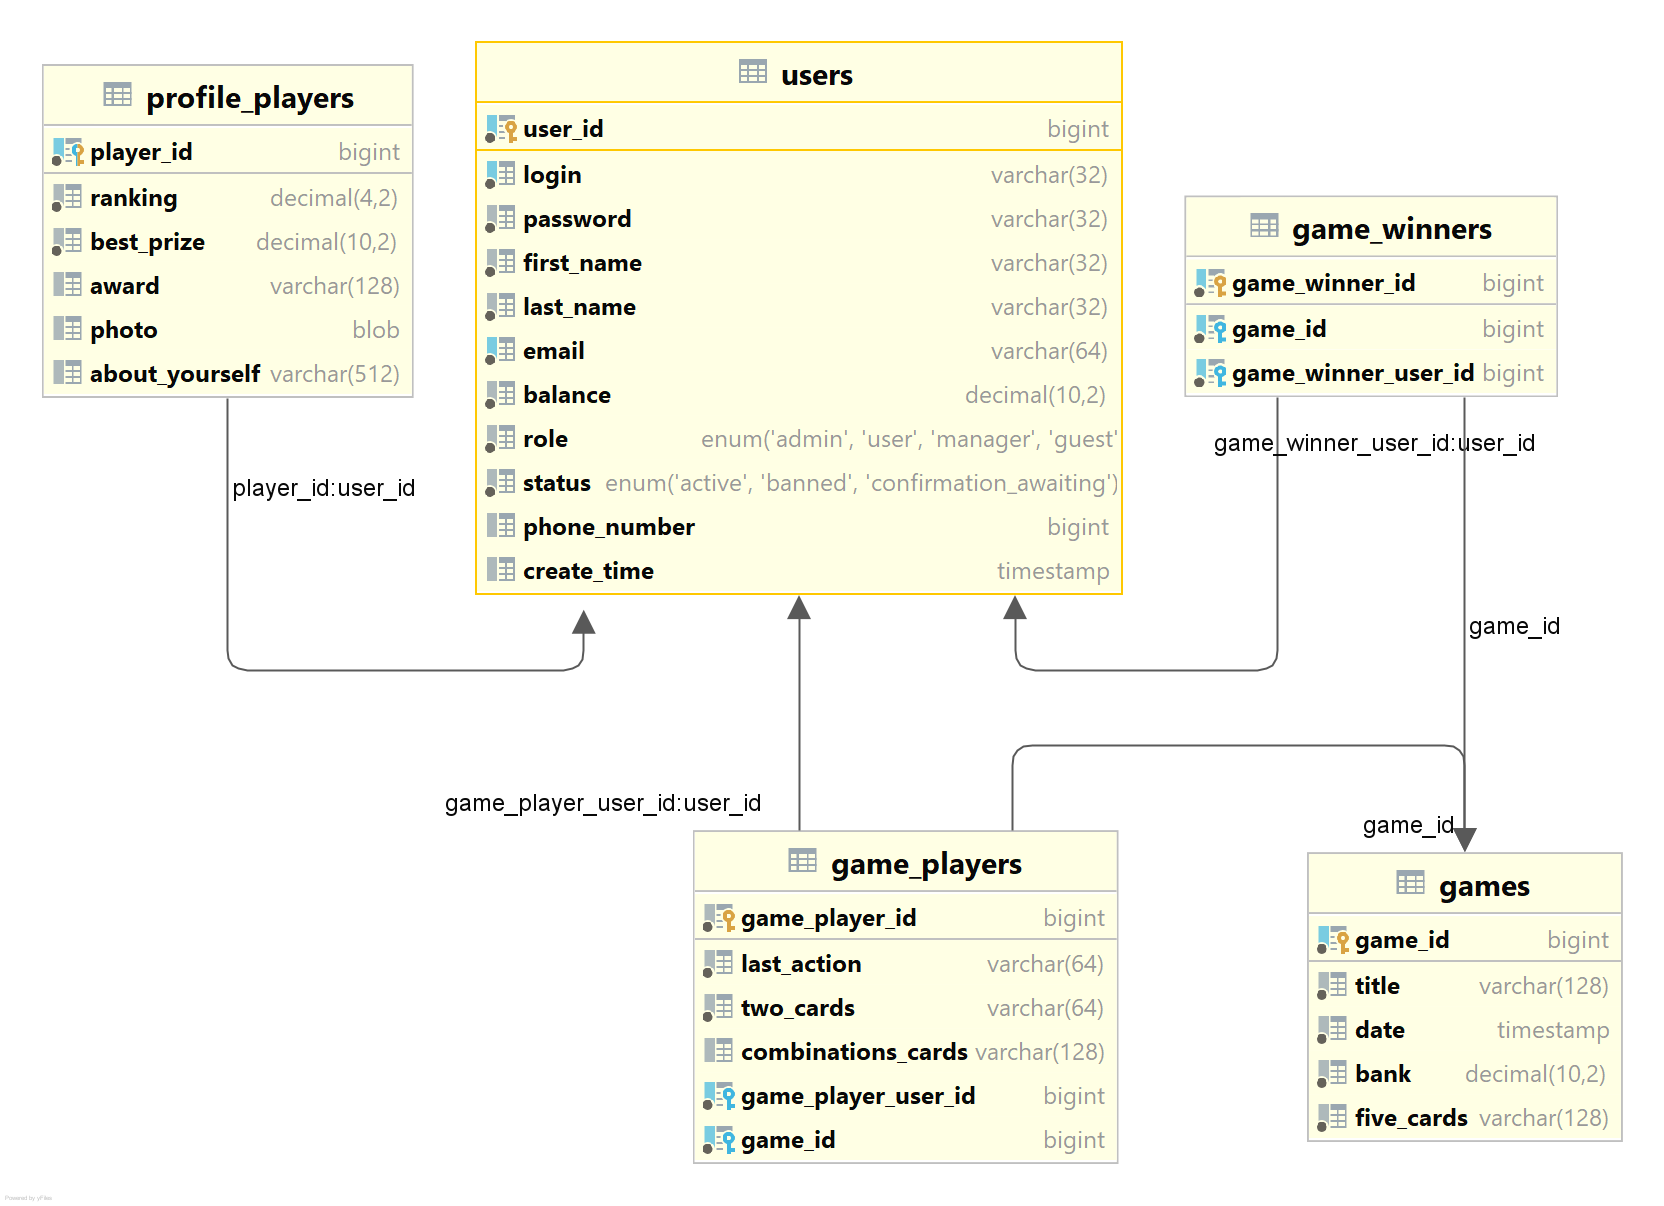
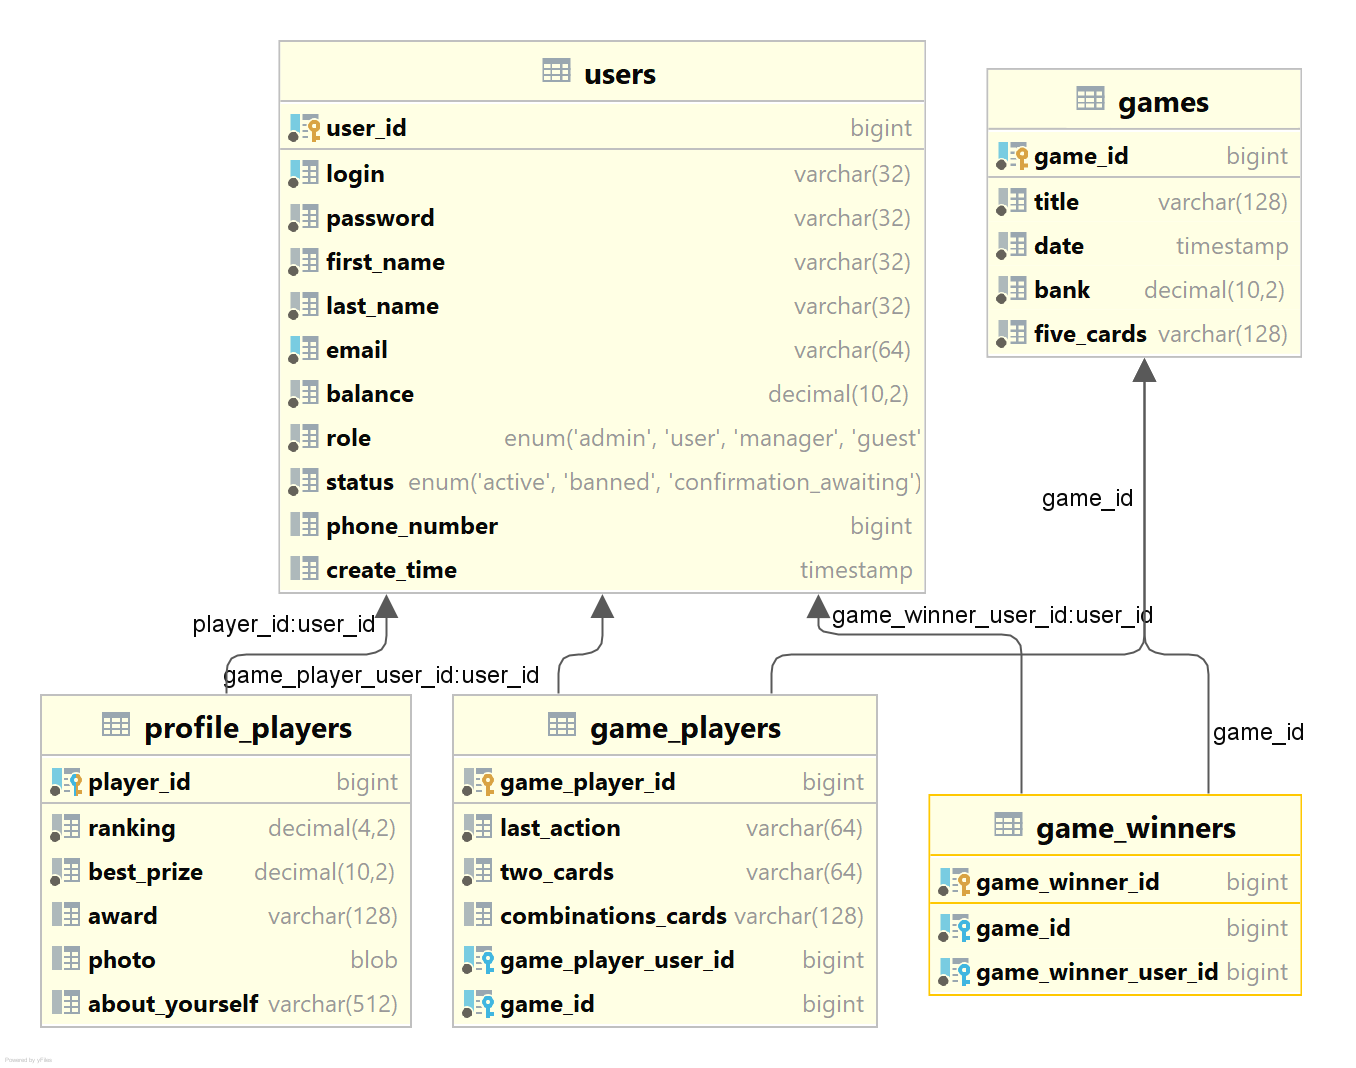
DB tablr profile_players delete field ranking and replace add lost_money, win_money.

diff --git a/src/main/java/com/epam/poker/model/entity/ProfilePlayer.java b/src/main/java/com/epam/poker/model/entity/ProfilePlayer.java
@@ -8,20 +8,22 @@ import java.util.StringJoiner;
 
 public class ProfilePlayer implements Entity {
     private long userId;
-    private BigDecimal ranking;
     private BigDecimal bestPrize;
     private String award;
     private Blob photo;
     private String aboutYourselt;
+    private BigDecimal lostMoney;
+    private BigDecimal winMoney;
 
-    public ProfilePlayer(long userId, BigDecimal ranking, BigDecimal bestPrize,
-                         String award, Blob photo, String aboutYourselt) {
+    public ProfilePlayer(long userId, BigDecimal bestPrize, String award, Blob photo,
+                         String aboutYourselt, BigDecimal lostMoney, BigDecimal winMoney) {
         this.userId = userId;
-        this.ranking = ranking;
         this.bestPrize = bestPrize;
         this.award = award;
         this.photo = photo;
         this.aboutYourselt = aboutYourselt;
+        this.lostMoney = lostMoney;
+        this.winMoney = winMoney;
     }
 
     private ProfilePlayer() {
@@ -36,12 +38,21 @@ public class ProfilePlayer implements Entity {
         return this;
     }
 
-    public BigDecimal getRanking() {
-        return ranking;
+    public BigDecimal getLostMoney() {
+        return lostMoney;
     }
 
-    public ProfilePlayer setRanking(BigDecimal ranking) {
-        this.ranking = ranking;
+    public ProfilePlayer setLostMoney(BigDecimal lostMoney) {
+        this.lostMoney = lostMoney;
+        return this;
+    }
+
+    public BigDecimal getWinMoney() {
+        return winMoney;
+    }
+
+    public ProfilePlayer setWinMoney(BigDecimal winMoney) {
+        this.winMoney = winMoney;
         return this;
     }
 
@@ -89,21 +100,24 @@ public class ProfilePlayer implements Entity {
         ProfilePlayer that = (ProfilePlayer) o;
 
         if (userId != that.userId) return false;
-        if (ranking != null ? !ranking.equals(that.ranking) : that.ranking != null) return false;
         if (bestPrize != null ? !bestPrize.equals(that.bestPrize) : that.bestPrize != null) return false;
         if (award != null ? !award.equals(that.award) : that.award != null) return false;
         if (photo != null ? !photo.equals(that.photo) : that.photo != null) return false;
-        return aboutYourselt != null ? aboutYourselt.equals(that.aboutYourselt) : that.aboutYourselt == null;
+        if (aboutYourselt != null ? !aboutYourselt.equals(that.aboutYourselt) : that.aboutYourselt != null)
+            return false;
+        if (lostMoney != null ? !lostMoney.equals(that.lostMoney) : that.lostMoney != null) return false;
+        return winMoney != null ? winMoney.equals(that.winMoney) : that.winMoney == null;
     }
 
     @Override
     public int hashCode() {
         int result = (int) (userId ^ (userId >>> 32));
-        result = 31 * result + (ranking != null ? ranking.hashCode() : 0);
         result = 31 * result + (bestPrize != null ? bestPrize.hashCode() : 0);
         result = 31 * result + (award != null ? award.hashCode() : 0);
         result = 31 * result + (photo != null ? photo.hashCode() : 0);
         result = 31 * result + (aboutYourselt != null ? aboutYourselt.hashCode() : 0);
+        result = 31 * result + (lostMoney != null ? lostMoney.hashCode() : 0);
+        result = 31 * result + (winMoney != null ? winMoney.hashCode() : 0);
         return result;
     }
 
@@ -111,11 +125,12 @@ public class ProfilePlayer implements Entity {
     public String toString() {
         return new StringJoiner(", ", ProfilePlayer.class.getSimpleName() + "[", "]")
                 .add("userId=" + userId)
-                .add("ranking=" + ranking)
                 .add("bestPrize=" + bestPrize)
                 .add("award='" + award + "'")
                 .add("photo=" + photo)
                 .add("aboutYourselt='" + aboutYourselt + "'")
+                .add("lostMoney=" + lostMoney)
+                .add("winMoney=" + winMoney)
                 .toString();
     }
 
@@ -135,8 +150,13 @@ public class ProfilePlayer implements Entity {
             return this;
         }
 
-        public ProfilePlayerBuilder setRanking(BigDecimal ranking) {
-            profilePlayer.setRanking(ranking);
+        public ProfilePlayerBuilder setLostMoney(BigDecimal money) {
+            profilePlayer.setLostMoney(money);
+            return this;
+        }
+
+        public ProfilePlayerBuilder setWinMoney(BigDecimal money) {
+            profilePlayer.setWinMoney(money);
             return this;
         }
 

diff --git a/src/main/java/com/epam/poker/dao/impl/UserDaoImpl.java b/src/main/java/com/epam/poker/dao/impl/UserDaoImpl.java
@@ -2,12 +2,10 @@ package com.epam.poker.dao.impl;
 
 import com.epam.poker.dao.AbstractDao;
 import com.epam.poker.dao.UserDao;
+import com.epam.poker.exception.DaoException;
 import com.epam.poker.mapper.impl.UserRowMapper;
 import com.epam.poker.model.entity.User;
 import com.epam.poker.model.enumeration.UserStatus;
-import com.epam.poker.exception.DaoException;
-import org.apache.logging.log4j.LogManager;
-import org.apache.logging.log4j.Logger;
 
 import java.math.BigDecimal;
 import java.sql.Connection;
@@ -17,7 +15,6 @@ import java.util.Optional;
 import static com.epam.poker.dao.ColumnName.USERS;
 
 public class UserDaoImpl extends AbstractDao<User> implements UserDao {
-    private static Logger LOGGER = LogManager.getLogger();
     public static final String SQL_FIND_ALL_USERS = """
             SELECT 
             user_id, login, password, first_name, last_name, email, 
@@ -176,7 +173,6 @@ public class UserDaoImpl extends AbstractDao<User> implements UserDao {
     @Override
     public long add(User user) throws DaoException {
         long generatedId = 0;
-        try {
             generatedId = executeInsertQuery(SQL_ADD_USER,
                     user.getLogin(),
                     user.getPassword(),
@@ -189,10 +185,6 @@ public class UserDaoImpl extends AbstractDao<User> implements UserDao {
                     user.getPhoneNumber(),
                     user.getCreateTime()
             );
-        } catch (DaoException e) {
-            LOGGER.error(e);
-            throw new DaoException(e);
-        }
         user.setUserId(generatedId);
         return generatedId;
     }

diff --git a/src/main/java/com/epam/poker/mapper/impl/ProfilePlayerRowMapper.java b/src/main/java/com/epam/poker/mapper/impl/ProfilePlayerRowMapper.java
@@ -13,11 +13,12 @@ public class ProfilePlayerRowMapper implements RowMapper<ProfilePlayer> {
     public ProfilePlayer map(ResultSet resultSet) throws SQLException {
         return ProfilePlayer.builder()
                 .setUserId(resultSet.getLong(PROFILE_PLAYER_USER_ID))
-                .setRanking(resultSet.getBigDecimal(PROFILE_PLAYER_RANKING))
                 .setBestPrize(resultSet.getBigDecimal(PROFILE_PLAYER_BEST_PRIZE))
                 .setAward(resultSet.getString(PROFILE_PLAYER_AWARD))
                 .setPhoto(resultSet.getBlob(PROFILE_PLAYER_PHOTO))
                 .setAboutYourself(resultSet.getString(PROFILE_PLAYER_ABOUT_YOURSELF))
+                .setLostMoney(resultSet.getBigDecimal(PROFILE_PLAYER_LOST_MONEY))
+                .setWinMoney(resultSet.getBigDecimal(PROFILE_PLAYER_WIN_MONEY))
                 .createRatingPlayer();
     }
 }

diff --git a/src/main/java/com/epam/poker/dao/Dao.java b/src/main/java/com/epam/poker/dao/Dao.java
@@ -35,17 +35,6 @@ public interface Dao<T extends Entity> {
     List<T> findAll() throws DaoException;
 
     /**
-     * Saves specific object to database.
-     *
-     * @param  item  <T> object to update.
-     *
-     * @return boolean value successe or fail update
-     *
-     * @throws  DaoException  if database errors occurs.
-     */
-    boolean update(T item) throws DaoException;
-
-    /**
      * Gets rows amount in specific table.
      *
      * @param  additionalCondition  an optional condition to query presented in string.
@@ -55,5 +44,4 @@ public interface Dao<T extends Entity> {
      * @throws  DaoException  if database errors occurs.
      */
     int findRowsAmount(Optional<String> additionalCondition) throws DaoException;
-    long add(T t) throws DaoException;
 }

diff --git a/src/main/java/com/epam/poker/dao/ColumnName.java b/src/main/java/com/epam/poker/dao/ColumnName.java
@@ -26,12 +26,12 @@ public final class ColumnName {
 
     //Table "profile_players"
     public static final String PROFILE_PLAYER_USER_ID = "player_id";
-    public static final String PROFILE_PLAYER_RANKING = "ranking";
     public static final String PROFILE_PLAYER_BEST_PRIZE = "best_prize";
     public static final String PROFILE_PLAYER_AWARD = "award";
     public static final String PROFILE_PLAYER_PHOTO = "photo";
     public static final String PROFILE_PLAYER_ABOUT_YOURSELF = "about_yourself";
-
+    public static final String PROFILE_PLAYER_LOST_MONEY = "lost_money";
+    public static final String PROFILE_PLAYER_WIN_MONEY = "win_money";
 
     //Table "game_players"
     public static final String GAME_PLAYER_ID = "game_player_id";

diff --git a/src/main/java/com/epam/poker/dao/UserDao.java b/src/main/java/com/epam/poker/dao/UserDao.java
@@ -90,5 +90,18 @@ public interface UserDao  extends Dao<User> {
      * @throws  DaoException  if database errors occurs.
      */
     boolean addMoneyById(BigDecimal money, long id) throws DaoException;
+
+    /**
+     * Saves specific object to database.
+     * Object User should be conatin UserId field
+     *
+     * @param  item  User object to update.
+     *
+     * @return boolean value successe or fail update
+     *
+     * @throws  DaoException  if database errors occurs.
+     */
+    boolean update(User item) throws DaoException;
+    long add(User t) throws DaoException;
     public boolean updatePassword(long userId, String password) throws DaoException;
 }
